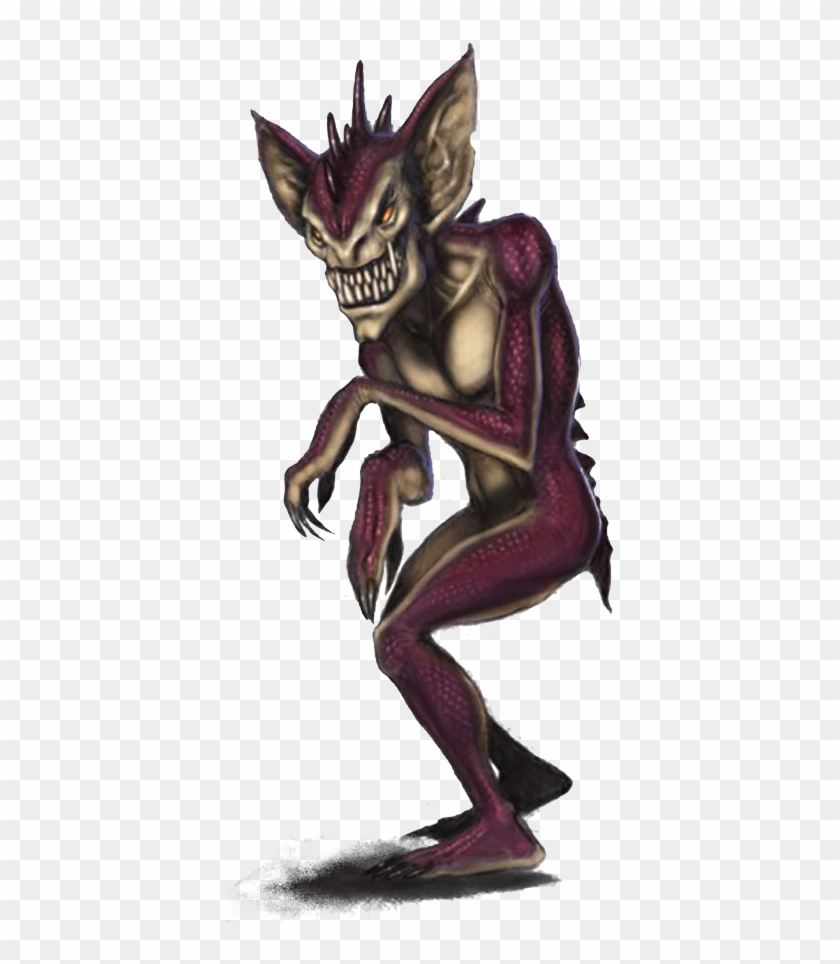
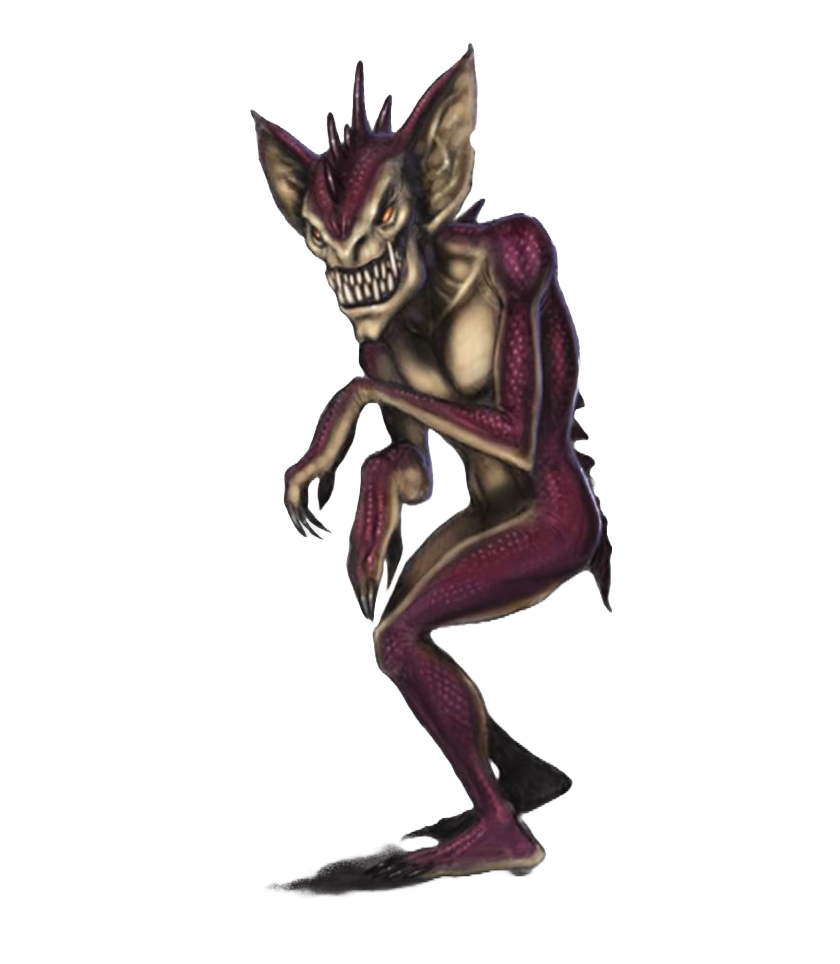
adds swords, fixes door and gremlin sprites, fixes combat manager

diff --git a/dungeon/src/main/java/dungeon/View/CombatManager.java b/dungeon/src/main/java/dungeon/View/CombatManager.java
@@ -1,9 +1,10 @@
-package dungeon;
+package dungeon.View;
 
 import java.awt.BorderLayout;
 import java.awt.Dimension;
 import java.awt.event.KeyAdapter;
 import java.awt.event.KeyEvent;
+import java.util.ArrayList;
 import java.util.Random;
 
 import javax.swing.JButton;
@@ -15,6 +16,11 @@ import javax.swing.JPanel;
 import javax.swing.JProgressBar;
 import javax.swing.JScrollPane;
 import javax.swing.JTextArea;
+
+import dungeon.Atom;
+import dungeon.DungeonCharacter;
+import dungeon.HealthPotion;
+import dungeon.Hero;
 
 public class CombatManager {
     private static final Random rand = new Random();
@@ -60,7 +66,17 @@ public class CombatManager {
 
         attackButton.addActionListener(e -> {
             double heroAttackDamage = hero.attack();
-            battleMessage.append(hero.getName() + " attacks and deals " + heroAttackDamage + " damage to " + monster.getName() + "\n");
+            String msg = hero.getName() + " attacks and deals " + Math.round(heroAttackDamage) + " damage to " + monster.getName();
+            int numSwords = 0;
+            if(hero instanceof Hero hro) {
+                numSwords = hro.getNumSwords();
+            }
+            String numSwordsStr = "";
+            if(numSwords > 0) {
+                numSwordsStr = " with their " + numSwords + " swords!";
+            }
+            String finMsg = msg + numSwordsStr + "\n";
+            battleMessage.append(finMsg);
 
             monster.setHealth(monster.getHealth() - heroAttackDamage);
             updateHealthBar(monsterHealthBar, monster.getHealth(), monster.getMaxHealth());
@@ -76,8 +92,12 @@ public class CombatManager {
         specialButton.addActionListener(e -> {
             battleMessage.append(hero.getName() + " uses special skill!\n");
             if(hero instanceof Hero hro) {
-                hro.useSpecialSkill();
+                ArrayList<String> messages = hro.useSpecialSkill(monster);
+                for(String str : messages) {
+                    battleMessage.append(str + "\n");
+                }
             }
+            updateHealthBar(heroHealthBar, hero.getHealth(), hero.getMaxHealth());
             updateHealthBar(monsterHealthBar, monster.getHealth(), monster.getMaxHealth());
 
             if (monster.getHealth() <= 0) {

diff --git a/dungeon/src/main/java/dungeon/Thief.java b/dungeon/src/main/java/dungeon/Thief.java
@@ -1,5 +1,7 @@
 package dungeon;
 
+import java.util.ArrayList;
+
 public class Thief extends Hero {
     private static final double DEFAULT_HEALTH = 75.0;
     private static final double DEFAULT_DAMAGE = 0.0;
@@ -18,23 +20,31 @@ public class Thief extends Hero {
     @Override
     public double attack() {
         if (Math.random() < HIT_CHANCE) {
-            return Math.round(MIN_DAMAGE + Math.random() * (MAX_DAMAGE - MIN_DAMAGE));
+            return Math.round(MIN_DAMAGE + Math.random() * (getSumWeaponMod() + MAX_DAMAGE - MIN_DAMAGE));
         }
         return 0;
     }
 
     @Override
-    public void useSpecialSkill() {
+    public ArrayList<String> useSpecialSkill(final DungeonCharacter theTarget) {
+        ArrayList<String> ret = new ArrayList<>();
         double chance = Math.random();
         if (chance < 0.4) {
-            System.out.println("Thief executes a Surprise Attack and gets an extra turn!");
-            System.out.println("Damage dealt: " + attack());
-            System.out.println("Extra attack damage: " + attack());
+            ret.add("Thief executes a Surprise Attack and gets an extra turn!");
+            double d1 = attack();
+            theTarget.addHealth(-d1);
+            ret.add("Damage dealt: " + d1);
+            double d2 = attack();
+            theTarget.addHealth(-d2);
+            ret.add("Extra attack damage: " + d2);
         } else if (chance < 0.6) {
-            System.out.println("Thief got caught! No attack this turn.");
+            ret.add("Thief got caught! No attack this turn.");
         } else {
-            System.out.println("Thief performs a normal attack.");
-            System.out.println("Damage dealt: " + attack());
+            ret.add("Thief performs a normal attack.");
+            double d = attack();
+            theTarget.addHealth(-d);
+            ret.add("Damage dealt: " + d);
         }
+        return ret;
     }
 }

diff --git a/dungeon/src/main/java/dungeon/Hero.java b/dungeon/src/main/java/dungeon/Hero.java
@@ -1,5 +1,7 @@
 package dungeon;
 
+import java.util.ArrayList;
+
 public abstract class Hero extends DungeonCharacter {
     private final double blockChance;
     private final String specialSkill;
@@ -13,6 +15,29 @@ public abstract class Hero extends DungeonCharacter {
         setSprite(new GameSprite("warrior.jpg", 0., 0., 10.0));
     }
 
+    /**
+     * returns the sum damage mod of all the swords in our inventory
+     */
+    public double getSumWeaponMod() {
+        double sumDamageMod = 0;
+        for(Atom content : getRecursiveContents()) {
+            if(content instanceof Sword swordOfAThousandTruths) {
+                sumDamageMod += swordOfAThousandTruths.getDamageModifier();
+            }
+        }
+        return sumDamageMod;
+    }
+
+    public int getNumSwords() {
+        int numSwords = 0; //yes it scales infinitely
+        for(Atom content : getRecursiveContents()) {
+            if(content instanceof Sword swordOfAThousandTruths) {
+                numSwords++;
+            }
+        }
+        return numSwords;
+    }
+
     public double getBlockChance() {
         return blockChance;
     }
@@ -21,7 +46,11 @@ public abstract class Hero extends DungeonCharacter {
         return specialSkill;
     }
 
-    public abstract void useSpecialSkill();
+    /**
+     * returns an arraylist of descriptions of whats happening to the combat manager
+     * @param theTarget the target we're using the skill on
+     */
+    public abstract ArrayList<String> useSpecialSkill(final DungeonCharacter theTarget);
 
     @Override
     public double attack() {

diff --git a/dungeon/src/main/java/dungeon/Warrior.java b/dungeon/src/main/java/dungeon/Warrior.java
@@ -1,5 +1,7 @@
 package dungeon;
 
+import java.util.ArrayList;
+
 public class Warrior extends Hero {
     private static final double DEFAULT_HEALTH = 125.0;
     private static final double DEFAULT_DAMAGE = 0.0;
@@ -18,21 +20,23 @@ public class Warrior extends Hero {
     @Override
     public double attack() {
         if (Math.random() < HIT_CHANCE) {
-            double damage = MIN_DAMAGE + Math.random() * (MAX_DAMAGE - MIN_DAMAGE);
-            return Math.round(damage);  // Round to nearest whole number
+            double damage = MIN_DAMAGE + Math.random() * (getSumWeaponMod() + MAX_DAMAGE - MIN_DAMAGE);
+            return damage;  
         }
         return 0;
     }
 
     @Override
-    public void useSpecialSkill() {
+    public ArrayList<String> useSpecialSkill(final DungeonCharacter theTarget) {
+        ArrayList<String> ret = new ArrayList<>();
         if (Math.random() < 0.4) {
-            double damage = 75 + Math.random() * 100;
-            damage = Math.round(damage);  // Round to nearest whole number
-            System.out.println("Warrior uses Crushing Blow!");
-            System.out.println("Damage dealt: " + damage);
+            double damage = 75 + Math.random() * (getSumWeaponMod() + 100);
+            damage = Math.round(damage);  
+            ret.add("Warrior uses Crushing Blow!");
+            ret.add("Damage dealt: " + damage);
         } else {
-            System.out.println("Crushing Blow missed!");
+            ret.add("Crushing Blow missed!");
         }
+        return ret;
     }
 }

diff --git a/dungeon/src/main/java/dungeon/Priestess.java b/dungeon/src/main/java/dungeon/Priestess.java
@@ -1,5 +1,7 @@
 package dungeon;
 
+import java.util.ArrayList;
+
 public class Priestess extends Hero {
     private static final double DEFAULT_HEALTH = 75.0;
     private static final double DEFAULT_DAMAGE = 0.0; 
@@ -21,7 +23,7 @@ public class Priestess extends Hero {
     @Override
     public double attack() {
         if (Math.random() < HIT_CHANCE) {
-            return Math.round(MIN_DAMAGE + Math.random() * (MAX_DAMAGE - MIN_DAMAGE));
+            return Math.round(MIN_DAMAGE + Math.random() * (getSumWeaponMod() + MAX_DAMAGE - MIN_DAMAGE));
         }
         return 0;
     }
@@ -34,14 +36,18 @@ public class Priestess extends Hero {
     }
 
     @Override
-    public void useSpecialSkill() {
+    public ArrayList<String> useSpecialSkill(final DungeonCharacter theTarget) {
+        ArrayList<String> ret = new ArrayList<>();
         double chance = Math.random();
         if (chance < 0.5) {
-            System.out.println("Priestess uses her special healing skill!");
-            heal();
+            ret.add("Priestess uses her special healing skill!");
+            addHealth(heal());
         } else {
-            System.out.println("Priestess performs a normal attack.");
-            System.out.println("Damage dealt: " + attack());
+            ret.add("Priestess performs a normal attack.");
+            double damage = attack();
+            theTarget.addHealth(-damage);
+            ret.add("Damage dealt: " + damage);
         }
+        return ret;
     }
 }

diff --git a/dungeon/src/main/java/dungeon/CombatTest.java b/dungeon/src/main/java/dungeon/CombatTest.java
@@ -46,14 +46,7 @@ public class CombatTest {
                     warriorAttackDamage = warrior.attack();
                     System.out.println(warrior.getName() + " attacks and deals " + warriorAttackDamage + " damage to " + enemy.getName());
                 } else if (choice == 2) {
-                    warrior.useSpecialSkill();
-                    // Special attack should deal damage, but it's only printed in `useSpecialSkill()`
-                    // Let's adjust so we apply the damage properly
-                    if (Math.random() < 0.4) { // Special attack success rate
-                        warriorAttackDamage = 75 + Math.random() * 100;
-                        warriorAttackDamage = Math.ceil(warriorAttackDamage);
-                        enemy.setHealth(enemy.getHealth() - warriorAttackDamage);
-                    }
+                    warrior.useSpecialSkill(enemy);
                 } else {
                     System.out.println("Invalid choice! You lost your turn.");
                 }

diff --git a/dungeon/src/main/java/dungeon/Sword.java b/dungeon/src/main/java/dungeon/Sword.java
@@ -2,17 +2,20 @@ package dungeon;
 
 public class Sword extends Movable implements Pickupable {
     private static final String NAME = "Sword";
+    private static final GameSprite SPRITE = new GameSprite("sword.png", 0.3, 0.0, 0.0, 0.2, 0.6, 15.0);
     /// the player deals this much more damage as a flat rate when this is inside their inventory
-    private int myDamageModifier;
+    private double myDamageModifier;
 
-    public Sword(final Atom theLoc) {
+    public Sword(final Atom theLoc, final double theDamageMod) {
         super(theLoc, NAME);
+        myDamageModifier = theDamageMod;
+        setSprite(SPRITE.clone());
     }
 
-    public void setDamageModifier(final int theMod) {
+    public void setDamageModifier(final double theMod) {
         myDamageModifier = theMod;
     }
-    public int getDamageModifier() {
+    public double getDamageModifier() {
         return myDamageModifier;
     }
 }

diff --git a/dungeon/src/main/java/dungeon/Controller/SystemController/DungeonGenerator.java b/dungeon/src/main/java/dungeon/Controller/SystemController/DungeonGenerator.java
@@ -20,6 +20,7 @@ import dungeon.Priestess;
 import dungeon.Room;
 import dungeon.Skeleton;
 import dungeon.Stairs;
+import dungeon.Sword;
 import dungeon.Thief;
 import dungeon.Warrior;
 
@@ -356,6 +357,10 @@ public final class DungeonGenerator extends SystemController {
                     int healthRoll = theRNG.nextInt(1,100);
                     if(healthRoll < theOptions.getHealthPotionGenerationChance()) {
                         addAtom(floor, new HealthPotion(room, theRNG, 50, 130));
+                    }
+                    int swordRoll = theRNG.nextInt(1,100); 
+                    if(swordRoll < theOptions.getSwordGenerationChance()) {
+                        addAtom(floor, new Sword(room, theRNG.nextDouble(20.0, 40.0)));
                     }
                 }
 
